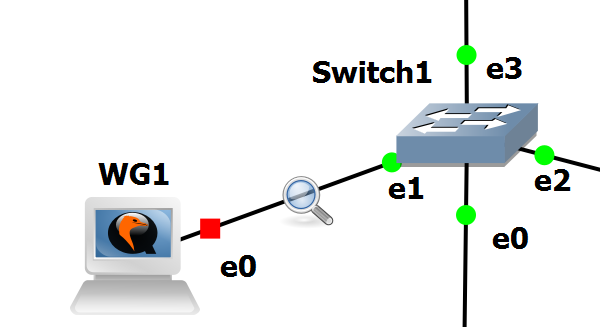
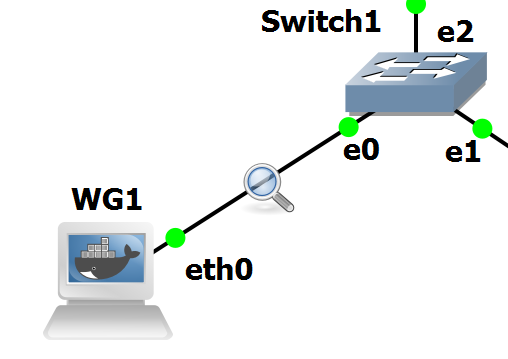
Adapted WireGuard guide and experiments to Docker usage

Changed region(s): [[0.0886, 0.0, 1.0, 1.0]]

diff --git a/docs/wireguard/index.md b/docs/wireguard/index.md
@@ -27,8 +27,8 @@ Now that we grasp some of WireGuard´s most important concepts and features, we 
 
 This laboratory demonstrates:
 
-- GNS3 configuration for 3 Linux hosts with WireGuard installed
-- Setup for two WireGuard hosts to form a tunnel
+- GNS3 configuration for 3 Docker hosts with WireGuard installed
+- Setup for two WireGuard peers to form a tunnel
 - Roaming capability of WireGuard to form a tunnel with the same peer in two different hosts
 - Packet analysis of WireGuard´s handshake, KeepAlive messages and normal operation
 
@@ -36,8 +36,7 @@ This laboratory demonstrates:
 
 The topology contains:
 
-- Three Linux hosts with internet access
-- A NAT for internet access
+- Three Docker containers with WireGuard pre-installed
 - An ethernet switch to connect all devices
 - Two WireGuard peers, with two machines sharing the same host
 
@@ -48,35 +47,18 @@ The topology contains:
 
 ## Topology Configuration
 
-To create this topology, begin by placing the NAT, from GNS3´s appliances and an Ethernet Switch, and connect them both.
-
-Then create the three Linux hosts. The hosts used for this laboratory were Cloud Guests, for their easy setup with internet connection.
-
-!!! warning
-
-    Before activating the Linux hosts, go to Configure -> HDD, and resize each of their drives to have at least 10000 more MB, to ensure there is space to update the host and install WireGuard.
-
-Now that the hosts are in place and connected to the switch, start them one by one, waiting for the their setup to finish before activating the next one. To login use:
+To create this topology, we need to obtain the necessary docker container, which can be done by doing:
 
 ```bash
-ubuntu
-ubuntu
+New Template -> Manually create a new template -> Docker Containers ->
+New -> New Image -> ghcr.io/groudonramsay/ubuntu-wireguard:1.0
 ```
 
-Then update their software before installing WireGuard with:
+For the options use Telnet, 1 Adapter and for Envirnoment Variable use --cap-add NET_ADMIN.
 
-```bash
-sudo apt update
-sudo apt upgrade
-```
+With the Docker appliance created, it is just a matter of placing all three machines and an ethernet switch connecting them all together.
 
-Finally, install WireGuard with:
-
-```bash
-sudo apt install wireguard
-```
-
-With this, you should have all three hosts updated and with WireGuard available to use.
+Now that the hosts are in place and connected to the switch, start them all, and let´s begin the configuration.
 
 Now, we will generate the key pair for each host and setup their WireGuard configurations.
 
@@ -90,20 +72,23 @@ cat publickey
 
 Save the two keys from both hosts in a note file to use afterwards.
 
-With the keys generated and saved, we now need to check the IP address of WG1, so that the two other devices can connect to it.
-
-Simply run the following command on WG1 and save the output in a note file:
+With the keys generated and saved, we now need to set the IP address of all devices. To do so use the commands:
 
 ```bash
-ip add
+ip address add dev eth0 100.0.0.1
+ip link set eth0 up
+ip route add 100.0.0.0/24 dev eth0
+ip add show eth0
 ```
+
+For WG2, change the last digit to 2, and for RoamingTester change the last digit to 3.
 
 With all the keys and necessary information obtained, we will now configure our WireGuard devices to be able to connect to each other and form a tunnel.
 
 For WG1, use the following command to create and open a configuration file:
 
 ```bash
-sudo nano /etc/wireguard/wg0.conf
+nano /etc/wireguard/wg0.conf
 ```
 
 Then, paste the following configuration into the file using right click:
@@ -135,7 +120,7 @@ ListenPort = 51820
 [Peer]
 PublicKey = cat publickey (WG1)
 AllowedIPs = 10.0.0.1/32
-Endpoint = WG1IP:51820
+Endpoint = 100.0.0.1:51820
 PersistentKeepalive = 25
 ```
 
@@ -148,13 +133,13 @@ With the configurations complete, all that is left is to test if it was properly
 To test this, first we will activate the interface in WG1, using the command:
 
 ```bash
-sudo wg-quick up wg0
+wg-quick up wg0
 ```
 
 And we will check on its status using:
 
 ```bash
-sudo wg
+wg
 ```
 
 You should see an output similar to the one presented in Figure 3.
@@ -169,13 +154,13 @@ This means that our interface is up and waiting for a peer to begin the connecti
 To start the interface we will do the same command as WG1:
 
 ```bash
-sudo wg-quick up wg0
+wg-quick up wg0
 ```
 
 And the same command to check the interface:
 
 ```bash
-sudo wg
+wg
 ```
 
 The difference this time, is the fact that now there are two interfaces up that are each other´s peer, which means that a tunnel will now form, and we will get a different output, detailed in Figure 4:
@@ -192,7 +177,7 @@ We will end our testing by opening WireShark in GNS3 in a link between WG1 and W
 To test this we will first ping the regular interface of WG2, to see that the underlying connection still exists and works:
 
 ```bash
-ping 192.168.122.139
+ping 100.0.0.2
 ```
 
 And we will see in WireShark that the ICMP packets appear as usual and that connection is still here.
@@ -216,5 +201,7 @@ And now we should see in WireShark the following packets:
 </figure>
 
 Which means that the tunnel has successfully formed and the packets that go through it are encrypted with WireGuard.
+
+!!! note "With the usage of Docker Image and containers for our WireGuard devices, it is entirely possible to perform this laboratory in ContainerLab if that is your preference."
 
 Now that the setup is complete, we will perform some experiments to see WireGuard in action, following the guides in [WireGuard Experiments](experiments.md)

diff --git a/docs/wireguard/experiments.md b/docs/wireguard/experiments.md
@@ -60,7 +60,7 @@ With this we have finished an in-depth study of WireGuard´s Handshake. Now we w
 
 ## WireGuard´s Regular Operation and KeepAlive
 
-We will now analyse how WireGuard works in its normal state of operation, verifying packets encrypted by it, and its KeepAlive packets, to better understande them and WireGuard as a whole.
+We will now analyse how WireGuard works in its normal state of operation, verifying packets encrypted by it, and its KeepAlive packets, to better understand them and WireGuard as a whole.
 
 Keep everything as it was when we finished the previous experiment. Lets begin by analysing the KeepAlive packets, that we had already seen from the previous experiments. WireGuard uses KeepAlive to ensure that the two peers are still up and connected, and has a setting to choose the time, in seconds, between each KeepAlive.
 
@@ -71,7 +71,7 @@ We will be using the first two KeepAlive packets, right after the initial handsh
   <figcaption>Figure 5: WireGuard KeepAlive Packets</figcaption>
 </figure>
 
-From these packets we can see the follwing elements:
+From these packets we can see the following elements:
 
 <figure markdown id="figure-6">
   ![Figure 6: WireGuard KeepAlive Analysis](../images/WGKeepAA.png)
@@ -123,7 +123,7 @@ We have been using the same tunnel between WG1 and WG2 for our previous experime
 Then we will turn on the interface in RoamingTester, and we should see in WireShark a connection forming, and by running in WG1 and RoamingTester the following command, we should see that a connection is indeed established with a new IP address, but with the same peer:
 
 ```bash
-sudo wg
+wg
 ```
 
 <figure markdown id="figure-9">
